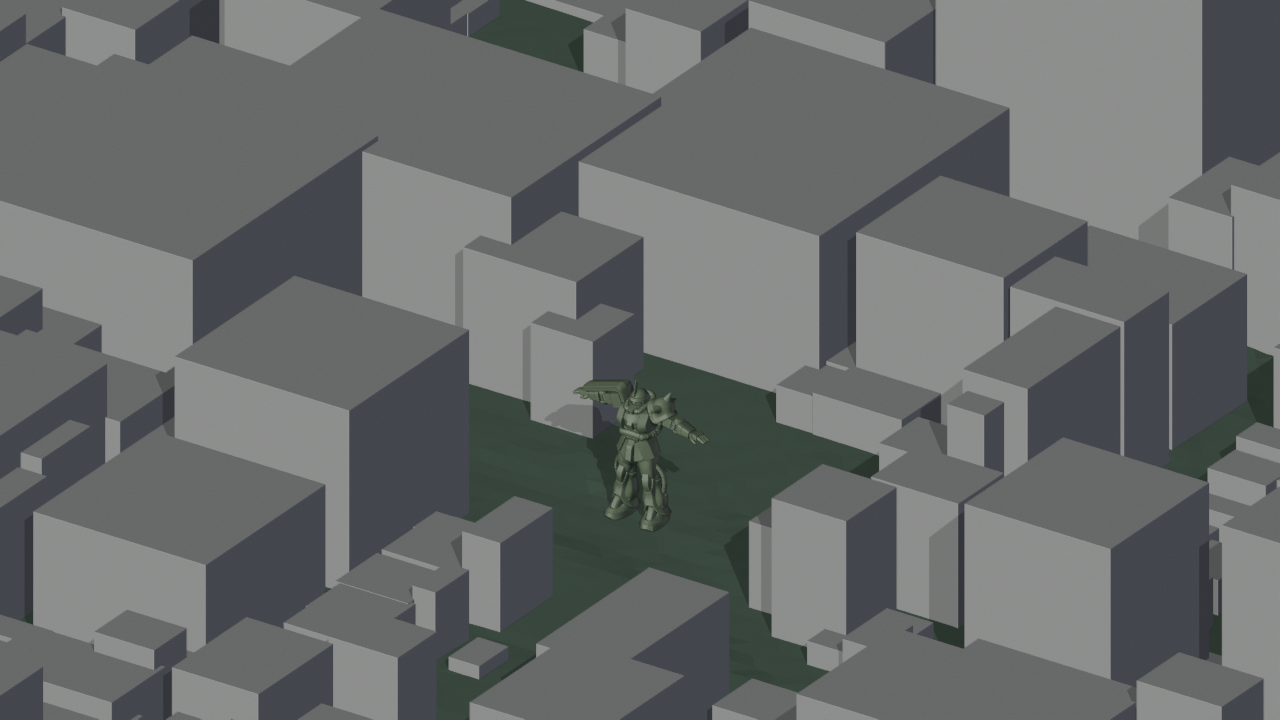
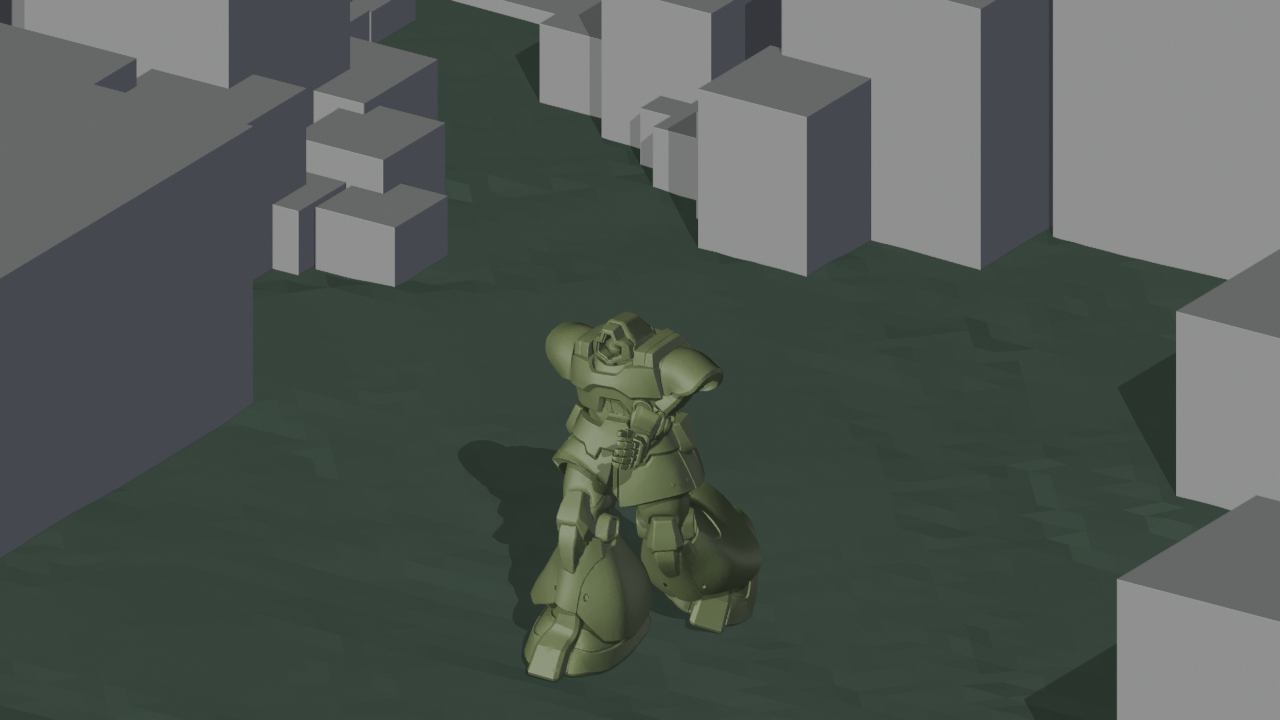
fix: use Mixamo posed model at Hon-Atsugi

diff --git a/projects/AtsugiMechaCity/render_hon_atsugi_station_from_plateau.py b/projects/AtsugiMechaCity/render_hon_atsugi_station_from_plateau.py
@@ -15,14 +15,17 @@ OUTPUT_BLEND = OUT_DIR / "Hon_Atsugi_Station_Plateau_Mecha.blend"
 OUTPUT_CLOSE = OUT_DIR / "Hon_Atsugi_Station_Plateau_Mecha_Close.png"
 OUTPUT_WIDE = OUT_DIR / "Hon_Atsugi_Station_Plateau_Mecha_Wide.png"
 OUTPUT_REPORT = OUT_DIR / "hon_atsugi_station_plateau_mecha_report.json"
+MIXAMO_POSED_BLEND = ROOT / "projects" / "AtsugiMechaCity" / "diagnostics" / "dom_mixamo_walk" / "DOM_Mixamo_Walk_Preview.blend"
+MIXAMO_POSED_FBX = ROOT / "projects" / "AtsugiMechaCity" / "diagnostics" / "dom_mixamo_walk" / "DOM_Mixamo_Walk_Preview.fbx"
 
 HON_ATSUGI_LAT = 35.4393389
 HON_ATSUGI_LON = 139.3643379
 TARGET_RADIUS = 480.0
 MECHA_NAME = "Zaku_Armature"
-TARGET_HEIGHT_M = 32.0
+TARGET_HEIGHT_M = 52.0
 MECHA_OFFSET = (60.0, -90.0)
-MECHA_CLEARANCE_RADIUS = 34.0
+MECHA_CLEARANCE_RADIUS = 82.0
+MIXAMO_POSE_FRAME = 34
 
 
 def ensure_dir():
@@ -55,6 +58,26 @@ def world_bounds(objects):
     return min_v, max_v
 
 
+def evaluated_world_bounds(objects):
+    depsgraph = bpy.context.evaluated_depsgraph_get()
+    min_v = mathutils.Vector((float("inf"), float("inf"), float("inf")))
+    max_v = mathutils.Vector((float("-inf"), float("-inf"), float("-inf")))
+    found = False
+    for obj in objects:
+        if obj.type != "MESH":
+            continue
+        found = True
+        evaluated = obj.evaluated_get(depsgraph)
+        for corner in evaluated.bound_box:
+            world_corner = evaluated.matrix_world @ mathutils.Vector(corner)
+            for axis in range(3):
+                min_v[axis] = min(min_v[axis], world_corner[axis])
+                max_v[axis] = max(max_v[axis], world_corner[axis])
+    if not found:
+        raise RuntimeError("No evaluated mesh bounds found.")
+    return min_v, max_v
+
+
 def descendants(obj):
     items = []
     pending = list(obj.children)
@@ -63,6 +86,31 @@ def descendants(obj):
         items.append(child)
         pending.extend(child.children)
     return items
+
+
+def remove_object_hierarchy(obj):
+    for child in list(obj.children):
+        remove_object_hierarchy(child)
+    bpy.data.objects.remove(obj, do_unlink=True)
+
+
+def import_fbx(path):
+    before = set(bpy.context.scene.objects)
+    bpy.ops.import_scene.fbx(filepath=str(path))
+    return [obj for obj in bpy.context.scene.objects if obj not in before]
+
+
+def append_mixamo_blend(path):
+    with bpy.data.libraries.load(str(path), link=False) as (data_from, data_to):
+        data_to.objects = [
+            name for name in data_from.objects
+            if name in {"tmpsvjdp8mbobj", "Armature"}
+        ]
+    objects = [obj for obj in data_to.objects if obj is not None]
+    for obj in objects:
+        if obj.name not in bpy.context.collection.objects:
+            bpy.context.collection.objects.link(obj)
+    return objects
 
 
 def look_at(obj, target):
@@ -88,6 +136,65 @@ def set_group_bottom_to_z(root, mesh_objects, target_z):
     delta_z = target_z - min_v.z
     root.location.z += delta_z
     return float(delta_z)
+
+
+def normalize_imported_model(imported_objects, target_meshes):
+    bpy.context.view_layer.update()
+    roots = [obj for obj in imported_objects if obj.parent is None]
+    if not any(obj.name.startswith("DOM") or obj.name == "Armature" for obj in imported_objects):
+        for obj in roots:
+            obj.rotation_euler = (math.radians(90.0), 0.0, 0.0)
+    bpy.context.view_layer.update()
+    min_v, max_v = evaluated_world_bounds(target_meshes)
+    height = max(float(max_v.z - min_v.z), 0.0001)
+    scale_factor = TARGET_HEIGHT_M / height
+    for obj in roots:
+        obj.scale = tuple(component * scale_factor for component in obj.scale)
+    bpy.context.view_layer.update()
+    min_v, _max_v = evaluated_world_bounds(target_meshes)
+    for obj in roots:
+        obj.location.z -= float(min_v.z)
+    bpy.context.view_layer.update()
+    return scale_factor
+
+
+def place_imported_model(imported_objects, target_meshes, x, y, z):
+    roots = [obj for obj in imported_objects if obj.parent is None]
+    if not roots:
+        roots = imported_objects[:1]
+    bpy.context.scene.frame_set(MIXAMO_POSE_FRAME)
+    bpy.context.view_layer.update()
+    min_v, max_v = evaluated_world_bounds(target_meshes)
+    center = (min_v + max_v) * 0.5
+    for obj in roots:
+        obj.location.x += float(x - center.x)
+        obj.location.y += float(y - center.y)
+    bpy.context.view_layer.update()
+    min_v, _max_v = evaluated_world_bounds(target_meshes)
+    for obj in roots:
+        obj.location.z += float(z - min_v.z)
+    bpy.context.view_layer.update()
+    return roots
+
+
+def freeze_pose_meshes(imported_objects, pose_frame):
+    bpy.context.scene.frame_set(pose_frame)
+    bpy.context.view_layer.update()
+    depsgraph = bpy.context.evaluated_depsgraph_get()
+    frozen = []
+    for obj in imported_objects:
+        if obj.type != "MESH":
+            continue
+        evaluated = obj.evaluated_get(depsgraph)
+        mesh = bpy.data.meshes.new_from_object(evaluated, depsgraph=depsgraph)
+        frozen_obj = bpy.data.objects.new(f"FrozenPose_{obj.name}", mesh)
+        frozen_obj.matrix_world = evaluated.matrix_world.copy()
+        bpy.context.collection.objects.link(frozen_obj)
+        frozen.append(frozen_obj)
+    for obj in imported_objects:
+        bpy.data.objects.remove(obj, do_unlink=True)
+    bpy.context.view_layer.update()
+    return frozen
 
 
 def nearest_z(points, x, y):
@@ -317,7 +424,7 @@ def main():
     terrain_mat = material_once("HonAtsugi_Terrain_Matte", (0.22, 0.34, 0.25, 1.0))
     road_mat = material_once("HonAtsugi_Road_Asphalt", (0.05, 0.052, 0.048, 1.0))
     bldg_mat = material_once("HonAtsugi_Building_Grey", (0.68, 0.7, 0.68, 1.0))
-    mecha_mat = material_once("HonAtsugi_Mecha_Muted_Green", (0.28, 0.38, 0.24, 1.0))
+    mecha_mat = material_once("HonAtsugi_Mecha_Posed_Olive", (0.42, 0.55, 0.25, 1.0))
 
     terrain = add_mesh_object("HonAtsugi_Terrain", payload["terrain_vertices"], payload["terrain_faces"], terrain_mat)
     roads = add_mesh_object("HonAtsugi_Roads", payload["road_vertices"], payload["road_faces"], road_mat)
@@ -335,31 +442,49 @@ def main():
         building_boxes.append(box)
     buildings = [add_building_box(f"HonAtsugi_Bldg_{index:04d}", box, bldg_mat) for index, box in enumerate(building_boxes)]
 
-    mecha = bpy.data.objects.get(MECHA_NAME)
+    existing_mecha = bpy.data.objects.get(MECHA_NAME)
+    if existing_mecha:
+        remove_object_hierarchy(existing_mecha)
+
     mecha_report = None
-    if mecha:
-        mecha_parts = [obj for obj in descendants(mecha) if obj.type == "MESH"]
-        if mecha_parts:
-            scale_factor = normalize_mecha(mecha, mecha_parts)
-            for part in mecha_parts:
+    imported_model = []
+    model_source = None
+    if MIXAMO_POSED_BLEND.exists():
+        imported_model = append_mixamo_blend(MIXAMO_POSED_BLEND)
+        model_source = MIXAMO_POSED_BLEND
+    elif MIXAMO_POSED_FBX.exists():
+        imported_model = import_fbx(MIXAMO_POSED_FBX)
+        model_source = MIXAMO_POSED_FBX
+    if imported_model:
+        model_armatures = [obj for obj in imported_model if obj.type == "ARMATURE"]
+        model_armature_names = [obj.name for obj in model_armatures]
+        model_meshes = freeze_pose_meshes(imported_model, MIXAMO_POSE_FRAME)
+        imported_model = model_meshes
+        if model_meshes:
+            for obj in imported_model:
+                obj.hide_render = False
+                obj.hide_viewport = False
+            scale_factor = normalize_imported_model(imported_model, model_meshes)
+            for part in model_meshes:
                 part.data.materials.clear()
                 part.data.materials.append(mecha_mat)
-            mecha.location.x = mecha_x
-            mecha.location.y = mecha_y
-            bpy.context.view_layer.update()
-            delta_z = set_group_bottom_to_z(mecha, mecha_parts, mecha_z)
-            bpy.context.view_layer.update()
-            mecha_min, mecha_max = world_bounds(mecha_parts)
+            place_imported_model(imported_model, model_meshes, mecha_x, mecha_y, mecha_z)
+            mecha_min, mecha_max = evaluated_world_bounds(model_meshes)
             mecha_report = {
-                "name": mecha.name,
+                "name": model_source.stem,
+                "source_model": str(model_source),
+                "rig_type": "Mixamo-rigged model frozen to posed static mesh",
+                "pose_frame": MIXAMO_POSE_FRAME,
+                "armatures": model_armature_names,
                 "placement_xy": [round(mecha_x, 6), round(mecha_y, 6)],
                 "terrain_z": round(mecha_z, 6),
                 "terrain_nearest_distance": round(mecha_z_distance, 6),
                 "scale_factor": round(scale_factor, 6),
-                "delta_z": round(delta_z, 6),
                 "bounds_min": [round(float(v), 6) for v in mecha_min],
                 "bounds_max": [round(float(v), 6) for v in mecha_max],
             }
+    if mecha_report is None:
+        raise RuntimeError(f"Mixamo posed model could not be loaded from {MIXAMO_POSED_FBX}")
 
     bpy.context.scene.render.engine = "BLENDER_WORKBENCH"
     bpy.context.scene.display.shading.light = "STUDIO"
@@ -372,9 +497,11 @@ def main():
         bpy.context.scene.world.color = (0.55, 0.62, 0.7)
     bpy.context.scene.render.resolution_x = 1280
     bpy.context.scene.render.resolution_y = 720
+    bpy.context.scene.frame_set(MIXAMO_POSE_FRAME)
+    bpy.context.view_layer.update()
 
     bpy.ops.wm.save_as_mainfile(filepath=str(OUTPUT_BLEND))
-    render(OUTPUT_CLOSE, (mecha_x, mecha_y), mecha_z, 260, (190, -280, 210), 36)
+    render(OUTPUT_CLOSE, (mecha_x, mecha_y), mecha_z, 180, (135, -205, 150), 44)
     render(OUTPUT_WIDE, (0.0, 0.0), station_z, 760, (520, -760, 360), 48)
 
     report = {

diff --git a/docs/INCIDENT_LOG.md b/docs/INCIDENT_LOG.md
@@ -1136,3 +1136,16 @@ un_command_with_heartbeat wrapper that utilizes subprocess.Popen to update the h
 | **Verification** | `python -m py_compile projects/AtsugiMechaCity/place_mecha_on_atsugi_terrain.py` passed. Blender 5.1 background render completed successfully. Latest road report: `selected_polygons = 243`, `vertices = 3850`, `faces = 2986`, `skipped_by_building = 378`, `building_clearance = 3.0`, `Bldg.282 = 92` skipped triangles, `skipped_no_terrain = 0`. Manual visual review was performed on regenerated close and wide PNGs. |
 | **Lessons Learned** | Adding a new map layer needs occupancy validation against already accepted layers. Coordinate conversion success is not enough; visual conflicts such as road-through-building must be part of the acceptance gate. |
 | **Prevention** | Extend the Atsugi generic quality playbook with road-building intersection checks, per-layer conflict counters, and a focused diagnostic camera for the worst overlap building before treating a new PLATEAU map as first-pass acceptable. |
+
+## INC-080: Hon-Atsugi station mecha render initially used an unposed/static model
+| Field | Detail |
+| --- | --- |
+| **Date** | 2026-05-16 JST |
+| **Detection** | User visually reviewed the Hon-Atsugi station render and reported that the 3D model remained in a T-pose/static placement. Follow-up visual review confirmed that the model needed a real posed Mixamo-rigged source rather than the default in-scene armature pose. |
+| **Impact** | The scene looked technically placed but not production-ready. A T-pose or axis-broken model undermines the intended station-scale composition and can hide pose/import regressions in future map renders. |
+| **Root Cause (5 Why)** | **Why1**: The model appeared unposed. **Why2**: The station render reused the default in-scene model placement path. **Why3**: Directly importing the Mixamo preview FBX produced an unusable horizontal/axis orientation. **Why4**: Appending the full Mixamo preview blend also brought in unrelated reference armature/mesh objects, corrupting bounds and placement. **Why5**: The station render lacked a dedicated acceptance gate for pose visibility, source-object selection, and post-import axis sanity. |
+| **Fix** | Updated `projects/AtsugiMechaCity/render_hon_atsugi_station_from_plateau.py` to append only the confirmed visible Mixamo preview objects (`tmpsvjdp8mbobj` and `Armature`) from `DOM_Mixamo_Walk_Preview.blend`, evaluate pose frame 34, freeze the posed evaluated mesh, and place it on the Hon-Atsugi terrain. Increased clearance and diagnostic scale so the posed model is visible among buildings. |
+| **Files** | `projects/AtsugiMechaCity/render_hon_atsugi_station_from_plateau.py`; `projects/AtsugiMechaCity/diagnostics/hon_atsugi_station/Hon_Atsugi_Station_Plateau_Mecha_Close.png`; `projects/AtsugiMechaCity/diagnostics/hon_atsugi_station/Hon_Atsugi_Station_Plateau_Mecha_Wide.png`; `projects/AtsugiMechaCity/diagnostics/hon_atsugi_station/hon_atsugi_station_plateau_mecha_report.json`; `3D_PIPELINE_CURRENT_STATUS_20260515.md` |
+| **Verification** | `python -m py_compile projects/AtsugiMechaCity/render_hon_atsugi_station_from_plateau.py` passed. Blender 5.1 background render completed successfully. The report shows `rig_type = Mixamo-rigged model frozen to posed static mesh`, `pose_frame = 34`, terrain placement Z `18.056`, and bounds max Z `70.055954`. Manual visual review confirmed the close render shows a standing, non-T-pose model. |
+| **Lessons Learned** | A successful rigged import is not enough; pose, axis orientation, object filtering, and final screenshot visibility must all be checked. For static hero renders, freezing the evaluated pose can be safer than carrying animation curves into a larger map scene. |
+| **Prevention** | Add a pose-visibility gate to future 3D map renders: reject T-pose silhouettes, reject horizontal/axis-broken bounds, record selected rig objects, and require close/wide screenshots where the posed model is visibly present. |

diff --git a/3D_PIPELINE_CURRENT_STATUS_20260515.md b/3D_PIPELINE_CURRENT_STATUS_20260515.md
@@ -540,3 +540,37 @@ Validation:
 - `python -m py_compile projects/AtsugiMechaCity/render_hon_atsugi_station_from_plateau.py`
 - Blender 5.1 background render completed successfully.
 - Manual visual check confirmed the close render shows the mecha among station-area buildings, and the wide render shows the surrounding dense urban block.
+
+## 20. 2026-05-16 Update: Hon-Atsugi Mixamo Posed Model
+
+User visual review found that the previous Hon-Atsugi model was still effectively a T-pose/static placement. The station render was updated to use a Mixamo-rigged preview model and freeze one posed animation frame into the station scene.
+
+Current source model:
+
+- `D:\Clawdbot_Docker_20260125\projects\AtsugiMechaCity\diagnostics\dom_mixamo_walk\DOM_Mixamo_Walk_Preview.blend`
+- Pose frame: `34`
+- Imported objects used:
+  - `tmpsvjdp8mbobj`
+  - `Armature`
+
+Important correction:
+
+- Direct FBX import of `DOM_Mixamo_Walk_Preview.fbx` came in with an unusable horizontal/axis orientation.
+- Appending all objects from the preview blend also pulled in an unrelated source armature/mesh.
+- The final method appends only the confirmed visible Mixamo model pair, evaluates frame 34, freezes the posed mesh, then places the frozen posed mesh on the Hon-Atsugi terrain.
+
+Latest metrics:
+
+- Mecha source: Mixamo-rigged model frozen to posed static mesh
+- Mecha height: 52m diagnostic scale
+- Terrain Z at placement: 18.056
+- Mecha bounds after placement:
+  - min: `[45.054604, -110.11274, 18.05595]`
+  - max: `[74.945389, -69.887268, 70.055954]`
+- Buildings rendered after mecha clearance: 1,541
+
+Validation:
+
+- `python -m py_compile projects/AtsugiMechaCity/render_hon_atsugi_station_from_plateau.py`
+- Blender 5.1 background render completed successfully.
+- Manual visual check confirmed the close PNG shows a non-T-pose standing model in the station-area city block.
